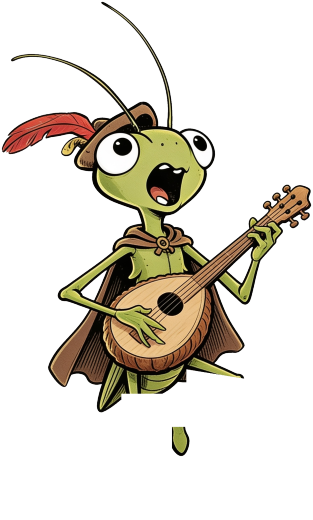
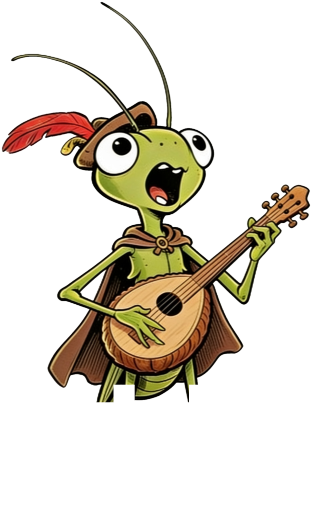
Quest 24: Zirpia: saubere Beine, stampft abwechselnd
Claude-Session: https://claude.ai/code/session_013ksHH1RN3knNHjnsFznGtM

diff --git a/takt.js b/takt.js
@@ -17,13 +17,13 @@ GAMES.takt=()=>new Promise(async done=>{hideBox();
  const MEL=[E4,G4,A4,G4,E4,D4,C4,D4,E4,G4,A4,C5,A4,G4,
   E4,G4,A4,C5,D5,C5,A4,G4,A4,C5,D5,E5,D5,C5,A4,G4,
   C5,D5,E5,D5,C5,A4,G4,A4,C5,D5,E5,E5,D5,C5,A4,G4,A4,G4,E4,C5];
- const N=CH.length;const FR=[A+'ui/zi_koerper.png',A+'ui/zi_bein.png',A+'ui/zi_jubel.png'];FR.forEach(u=>{const i=new Image();i.src=u});
+ const N=CH.length;const FR=[A+'ui/zi_koerper.png',A+'ui/zi_bein_l.png',A+'ui/zi_jubel.png',A+'ui/zi_bein_r.png'];FR.forEach(u=>{const i=new Image();i.src=u});
  const o=el('div','tk2');o.innerHTML='<div class="tk2-bg"></div><div class="tk2-st"><div class="tk2-top"><div class="tk2-t">Zirpias großer Auftritt</div><div class="tk2-meter"><i></i><b>Begeisterung</b></div></div>'+
-  '<div class="tk2-zi"><div class="tk2-rig"><div class="tk2-leg l"><img src="'+A+'ui/zi_bein.png" alt=""></div><div class="tk2-leg r"><img src="'+A+'ui/zi_bein.png" alt=""></div><img class="tk2-body" src="'+A+'ui/zi_koerper.png" alt=""></div><img class="tk2-jub" src="'+FR[2]+'" alt=""></div><div class="tk2-snails"></div>'+
+  '<div class="tk2-zi"><div class="tk2-rig"><img class="tk2-lg l" src="'+A+'ui/zi_bein_l.png" alt=""><img class="tk2-lg r" src="'+A+'ui/zi_bein_r.png" alt=""><img class="tk2-body" src="'+A+'ui/zi_koerper.png" alt=""></div><img class="tk2-jub" src="'+FR[2]+'" alt=""></div><div class="tk2-snails"></div>'+
   '<div class="tk2-lanes"><div class="tk2-ln l"><div class="tk2-rail"></div><div class="tk2-hit"><img src="'+A+'ui/trommel.png" alt=""></div></div><div class="tk2-ln r"><div class="tk2-rail"></div><div class="tk2-hit"><img src="'+A+'ui/trommel.png" alt=""></div></div><div class="tk2-notes"></div></div>'+
   '<div class="tk2-combo"></div><div class="tk2-pop l"></div><div class="tk2-pop r"></div><div class="tk2-help">Linke Note: links tippen. Rechte Note: rechts tippen. Am besten mit beiden Daumen.</div><div class="tk2-count"></div></div>';
  document.body.appendChild(o);requestAnimationFrame(()=>o.classList.add('on'));
- const $o=s=>o.querySelector(s),notesEl=$o('.tk2-notes'),hits=[...o.querySelectorAll('.tk2-hit')],pops=[$o('.tk2-pop.l'),$o('.tk2-pop.r')],comboEl=$o('.tk2-combo'),meter=$o('.tk2-meter i'),zi=$o('.tk2-zi'),lanes=$o('.tk2-lanes'),stg=$o('.tk2-st');
+ const $o=s=>o.querySelector(s),notesEl=$o('.tk2-notes'),hits=[...o.querySelectorAll('.tk2-hit')],pops=[$o('.tk2-pop.l'),$o('.tk2-pop.r')],comboEl=$o('.tk2-combo'),meter=$o('.tk2-meter i'),zi=$o('.tk2-zi'),legs=[...o.querySelectorAll('.tk2-lg')],lanes=$o('.tk2-lanes'),stg=$o('.tk2-st');
  const SN=[[4,0,1],[22,5,.9],[40,1,1.05],[60,6,.92],[80,0,1]];const snails=SN.map(([x,y,s],i)=>{const e=el('img','tk2-sn');e.src=A+'ui/schnecke.png';e.style.left=x+'%';e.style.bottom=(2+y)+'%';e.style.setProperty('--s',s*(i%2?-1:1));e.style.animationDelay=(i*.13)+'s';$o('.tk2-snails').appendChild(e);return e});
  if(TEST){const tb=el('button','pbn-test','Test: fertig');tb.style.cssText='position:absolute;right:8px;top:70px;z-index:9';tb.onclick=()=>{res.hits=N;res.perfect=N;finish()};stg.appendChild(tb)}
  const c=ac();const LAT=(c.outputLatency||c.baseLatency||0);
@@ -59,7 +59,9 @@ GAMES.takt=()=>new Promise(async done=>{hideBox();
    while(next<N&&notes[next].st&&notes[next].t<now-.4)next++;
    // Zirpia stampft im Wechsel auf jeden Schlag
    const bt=Math.floor((now-t0)/IV),ph=((now-t0)/IV)%1;
-   if(now>t0-4*IV&&now<t0+48*IV){if(bt!==lastBeat){lastBeat=bt;zi.classList.toggle('b1',bt%2!==0);zi.classList.remove('stomp');void zi.offsetWidth;zi.classList.add('stomp');o.classList.remove('beat');void o.offsetWidth;o.classList.add('beat')}}
+   if(now>t0-4*IV&&now<t0+48*IV){if(bt!==lastBeat){lastBeat=bt;zi.classList.remove('stomp');void zi.offsetWidth;zi.classList.add('stomp');o.classList.remove('beat');void o.offsetWidth;o.classList.add('beat')}}
+   {const u=(((now-t0)/IV)%2+2)%2,ll=u<1?Math.sin(Math.PI*u):0,rr=u>=1?Math.sin(Math.PI*(u-1)):0;
+    legs[0].style.transform='translateY('+(-ll*7)+'%) rotate('+(ll*7)+'deg)';legs[1].style.transform='translateY('+(-rr*7)+'%) rotate('+(-rr*7)+'deg)'}
    if(now>t0+CH[N-1][0]*IV+1.2){o.removeEventListener('pointerdown',tap);finish();return}
    raf=requestAnimationFrame(loop)};raf=requestAnimationFrame(loop)};
  async function finish(){if(fin)return;fin=1;cancelAnimationFrame(raf);hush(false);o.classList.add('ende');

diff --git a/index.html b/index.html
@@ -9,7 +9,7 @@
 <meta name="robots" content="noindex">
 <link rel="preconnect" href="https://fonts.googleapis.com"><link rel="preconnect" href="https://fonts.gstatic.com" crossorigin>
 <link href="https://fonts.googleapis.com/css2?family=Grenze+Gotisch:wght@500;700;800&family=Alegreya:ital,wght@0,400;0,500;0,700;1,400&family=Alegreya+SC:wght@500;700&family=Caveat:wght@500;700&display=swap" rel="stylesheet">
-<link rel="stylesheet" href="style.css?v=1794179147">
+<link rel="stylesheet" href="style.css?v=1794179717">
 </head>
 <body>
 
@@ -59,27 +59,27 @@
 <div id="sheet" class="ovl sheet"></div>
 <div id="toast" class="toast"></div>
 
-<script src="gate.js?v=1794179147"></script>
-<script src="engine.js?v=1794179147"></script>
-<script src="scene.js?v=1794179147"></script>
-<script src="dice.js?v=1794179147"></script>
-<script src="items.js?v=1794179147"></script>
-<script src="battle.js?v=1794179147"></script>
-<script src="ui.js?v=1794179147"></script>
-<script src="slyr.js?v=1794179147"></script>
-<script src="games.js?v=1794179147"></script>
-<script src="malen.js?v=1794179147"></script>
-<script src="takt.js?v=1794179147"></script>
-<script src="bossgames.js?v=1794179147"></script>
-<script src="films.js?v=1794179147"></script>
-<script src="days1.js?v=1794179147"></script>
-<script src="days2.js?v=1794179147"></script>
-<script src="days3.js?v=1794179147"></script>
-<script src="days4.js?v=1794179147"></script>
-<script src="hero.js?v=1794179147"></script>
-<script src="qrcode.js?v=1794179147"></script>
-<script src="komplize.js?v=1794179147"></script>
-<script src="urkunde.js?v=1794179147"></script>
-<script src="main.js?v=1794179147"></script>
+<script src="gate.js?v=1794179717"></script>
+<script src="engine.js?v=1794179717"></script>
+<script src="scene.js?v=1794179717"></script>
+<script src="dice.js?v=1794179717"></script>
+<script src="items.js?v=1794179717"></script>
+<script src="battle.js?v=1794179717"></script>
+<script src="ui.js?v=1794179717"></script>
+<script src="slyr.js?v=1794179717"></script>
+<script src="games.js?v=1794179717"></script>
+<script src="malen.js?v=1794179717"></script>
+<script src="takt.js?v=1794179717"></script>
+<script src="bossgames.js?v=1794179717"></script>
+<script src="films.js?v=1794179717"></script>
+<script src="days1.js?v=1794179717"></script>
+<script src="days2.js?v=1794179717"></script>
+<script src="days3.js?v=1794179717"></script>
+<script src="days4.js?v=1794179717"></script>
+<script src="hero.js?v=1794179717"></script>
+<script src="qrcode.js?v=1794179717"></script>
+<script src="komplize.js?v=1794179717"></script>
+<script src="urkunde.js?v=1794179717"></script>
+<script src="main.js?v=1794179717"></script>
 </body>
 </html>

diff --git a/style.css b/style.css
@@ -1501,3 +1501,8 @@ img{display:block;max-width:100%}
 .tk2-jub{opacity:0;transition:opacity .12s;object-fit:contain}
 .tk2-zi.jub .tk2-jub{opacity:1}.tk2-zi.jub .tk2-rig{opacity:0}
 .tk2-n{opacity:0}
+.tk2-zi{aspect-ratio:1281/2133}
+.tk2-leg{display:none}
+.tk2-lg{position:absolute;inset:0;width:100%;height:100%}
+.tk2-lg.l{transform-origin:40% 73%}
+.tk2-lg.r{transform-origin:62.5% 73%}
